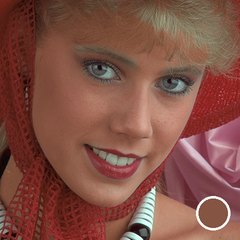
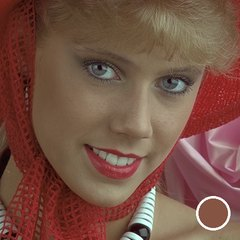
Skin Tone covers and report for the natural shades; backdrop video fix documented
- Skin Tone covers regenerated from the public test portrait with the new
  shades.
- Phase 8 report: the shade as a change of the skin's own colour, the
  natural-hue guard and headroom, final validation on 18 faces (face
  5.8 / body 4.3 ΔE median, background 0.01, no new clipping, skin as
  steady as the clip), and the backdrop video glitch (cause, fix, result:
  background flicker halved, one-frame wall patches gone).
- Architecture: pp_video_consensus_mask.

Claude-Session: https://claude.ai/code/session_017Dx6HQudFpAYYYPyoSw3qJ

diff --git a/docs/PHASE8_BACKDROPS_SKINTONE_REPORT.md b/docs/PHASE8_BACKDROPS_SKINTONE_REPORT.md
@@ -64,7 +64,7 @@ How a backdrop is made (`native/engine/src/backdrop/backdrop.cpp`):
 
 ## Skin Tone
 
-Skin Tone is separate from the beauty filters, which light and retouch. It changes the colour of the skin itself: on the face, neck, chest, arms and hands. Hair, eyes, brows, lips, teeth, clothes and the background keep their own colours.
+Skin Tone is separate from the beauty filters, which light and retouch. It changes the colour of the skin itself, softly and under the photo's own light: on the face, neck, chest, arms and hands. Hair, eyes, brows, lips, teeth, clothes and the background keep their own colours.
 
 | # | Shade | Plan | Character |
 |---|---|---|---|
@@ -88,47 +88,74 @@ In the editor, the new **Skin Tone** tool (next to Backdrop) shows a tile per sh
 
 ### How it works (`native/engine/src/skintone/skintone.cpp`, `pp_skin_tone`)
 
-1. **Measure the person's own skin** on the face, the median colour and its spread, as the beauty engine does.
-2. **Find their skin everywhere.** A weight per pixel combines:
-   - colour similarity to that skin, with a capped tolerance so mixed light or a group photo doesn't take in clothes;
+A first version moved the skin to an absolute target colour. On review it looked like heavy make-up: deep skin pushed toward a pale or golden target went ashen, khaki or greenish. It was rebuilt against a reference sheet of 13 shades on one face. In that sheet every shade stays in the natural skin family, the face and hand change together, and the room keeps its light.
+
+**Measured from the reference:** fair shades lift the skin by about +0.4 to +0.7 stop, deep ones lower it by about −0.2 to −0.45 stop, and each re-balances red, green and blue a little.
+
+1. **A shade is a change of the skin's own colour under the same light**: per-channel gains in linear light, as if the skin's albedo changed.
+   - The scene's light colour, the person's shading, pores and flush all stay, so the new shade sits in the photo naturally.
+   - A test checks this: under a warm lamp or a cool window, the skin takes the same change and the wall is untouched.
+   - The gains were derived from the reference and then fitted on 18 real faces so neighbouring shades stay apart; each shade stays within ±0.08 of its design values.
+2. **Natural-hue guard.** Skin hue lives in a narrow band, measured on these faces at 107–135° (Cb/Cr angle). Past the band, a colour eases back softly, never further than the person's own starting hue: deep skin never turns khaki or olive-green, and no skin turns bruised-magenta. The upper limit rises from about 135° on deep skin to 145° on fair skin.
+3. **Headroom for fair skin.** Already-fair skin isn't lifted toward white, where it would lose its texture. It takes the shade's colour balance, not its lift. Highlights roll off just short of white, so nothing new clips.
+4. **Shine** keeps the light's colour; only its brightness follows the shade.
+5. **Even tone.** Colour blotches and colour noise are pulled a little toward the skin's local colour. Brightness detail — pores and the face's shape — is untouched.
+6. **Finding the skin.** A weight per pixel combines:
+   - colour similarity to the person's own skin (measured on the face), with a capped tolerance;
    - brightness, which keeps dark hair, brows and beards out;
-   - texture, which keeps fair or blonde hair out: strands are busy at fine scale and skin is smooth, and the test is stricter around and above the face;
-   - the face and person masks, with eyes, brows and lips protected.
+   - texture, which keeps fair hair out: strands are busy, skin is smooth.
 
-   The weight follows the photo's own edges through a colour guided filter.
-3. **Brightness moves part of the way:** half the distance in stops, eased off toward about 0.7 stop either way, in linear light. Highlights are rolled off, so nothing new clips.
-4. **The undertone (hue) moves all the way** to the shade's. Saturation follows only as far as brightness could go, and always at least half way. Without that, a pale shade on a face that stays deep looks ashen grey, and a deep shade on a face that stays fair looks orange. Shine stays nearly white, which avoids a metallic look. Out-of-range colours are eased back by reducing chroma, never by clipping, so texture stays.
-5. The person's own variation — flush, shading, freckles, pores — is kept around the new shade.
-
-**A deliberate choice.** A shade changes the person's colouring, but not who they are. Brightness is limited to about ±0.7 stop. Porcelain Rose on a deep-skinned face gives a lighter, rosier version of that face, not a different person's skin. The same holds the other way. Strength scales everything.
+   The face area is feathered so no oval outline shows, and features (eyes, brows, lips) are protected with soft edges. The weight is firm on clear skin, so the face and the body take the same shade, and it follows the photo's own edges through a colour guided filter.
 
 ### Validation (`scripts/skintone-demo.py`)
 
-**Faces:** your photo, two reference portraits and 15 FairFace faces, from very fair to very deep, including group photos.
+**Faces:** your photo, two reference portraits and 15 FairFace faces from very fair to very deep, including group photos.
 
-**Ground truth:** MediaPipe's multiclass segmenter labels face skin, body skin, hair and clothes, for measuring only. The app uses ML Kit plus the face landmarks. 18 faces × 13 shades = 234 renders.
+**Ground truth:** MediaPipe's multiclass segmenter labels face skin, body skin, hair and clothes, for measuring only; the app uses ML Kit plus the face landmarks. 234 renders.
 
-| Measure (CIELAB ΔE) | Median | 90th percentile |
+| Measure (CIELAB ΔE unless noted) | Median | 90th percentile |
 |---|---|---|
-| Face skin change | 10.2 | 16.2 |
-| Body skin change (neck, arms, hands) | 7.4 | 14.4 |
-| Distance to the shade's colour, after / before (face) | 0.51 | — |
-| Hair change | 1.1 | 6.7 |
-| Clothes change | 0.45 | 3.7 |
+| Face skin change | 5.8 | 8.8 |
+| Body skin change (neck, arms, hands) | 4.3 | 8.2 |
+| Share of the shade's change reaching the face / body | 0.76 / 0.68 | — |
+| Hair change | 0.75 | 4.3 |
+| Clothes change | 0.29 | 2.3 |
 | Background change | 0.01 | 0.08 |
-| Eyes, brows, lips change | 1.0 | 1.9 |
-| Skin texture kept (fine detail, after / before) | 1.09 (face), 1.07 (body) | 0.94–1.20 (10th–90th) |
-| Newly clipped pixels | 0 | max 0.8% (one low-light photo) |
+| Eyes, brows, lips change | 0.9 | 1.5 |
+| Skin texture relative to brightness (face) | 1.04 | 0.95–1.16 (10th–90th) |
+| Newly clipped pixels | 0 in every render | — |
 
-**Distinct shades.** On each face, the two closest shades differ by a median of 3.6 ΔE (2.3 is about what most people can just tell apart). The exceptions are the most underexposed FairFace faces, where the brightness limit squeezes neighbouring light shades together: Golden Beige vs Olive at 1.2 on the darkest. The shade colours were fitted with a model of the engine on these faces, keeping each shade close to its name.
+**Distinct shades.** On each face, the two closest shades differ by a median of 2.3 ΔE (about what most people can just tell apart), and by 2.5 on your photo.
 
-**Speed:** 0.29–0.33 s per shade for your 8 MP photo, 0.05–0.09 s at 0.8 MP (desktop host, 4 cores).
+Gentle shades sit close by nature; neighbours in the reference sheet are close too (Honey, Caramel, Bronze). On the three most underexposed FairFace faces the closest pair falls to 0.8–1.0.
 
-**Your 5-second clip** (164 frames): face found in every frame. The skin is as steady as the clip itself: cheek colour changes 0.74 levels frame to frame with a shade, against 0.57 with Glide alone. About 0.1–0.24 s per frame on the host.
+**Speed:** 0.27–0.34 s per shade for your 8 MP photo, 0.07–0.15 s at 0.8 MP (desktop host, 4 cores).
+
+**Your 5-second clip** (164 frames): face found in every frame. Cheek colour changes 0.52–0.81 levels frame to frame with a shade, against 0.57 with Glide alone. About 0.1 s per frame on the host.
 
 **Known limits.**
-- Hair the same colour as the skin (auburn, ginger, some light browns) can pick up part of the shade, especially at the fringe. The hair change reaches 10–13 ΔE on the worst photos; the Strength slider tones it down.
-- Clothing in a skin-like colour (beige, pink) near the skin can shift slightly (90th percentile 3.7 ΔE).
+- Skin-coloured hair (auburn, ginger, light brown) can pick up a little of the shade at the fringe (90th percentile 4.3 ΔE).
+- On a very underexposed face, neighbouring shades are hard to tell apart.
+
+## The backdrop video glitch
+
+**Seen in your 5-second clip:** a shadowy form pulling in and out around the person.
+
+**Cause.** Single frames where the person-finder made a mistake:
+- In frame 61 a chunk of the wall above your head was marked as "person"; in frame 60, a fleck beside it.
+- The head outline changed shape from one frame to the next.
+
+Cut out and re-lit, those bits of the old wall flickered in and out of the new scene.
+
+**Fixed in two places:**
+- **The matte drops stray islands.** Patches of "person" not connected to anyone (smaller than 8% of the main subject) are removed. People standing apart are each large, and stay. This helps photos too.
+- **Video uses a three-frame consensus.** The new `pp_video_consensus_mask` takes the per-pixel median of the previous, current and next frames' masks. A one-frame mistake is outvoted; real movement, which changes smoothly, passes through.
+
+**Result on your clip (Stage):**
+- The wall chunk and the fleck are gone (see frames 58–63 before and after).
+- Frame-to-frame change in the background halved: 1.84 → 0.93 levels on average, worst frame 10.6 → 7.0.
+
+**Not yet in the app:** Glide clips don't offer Backdrops yet (they use Spotlight's blur). The consensus call is ready for that, and for steadier Spotlight clips.
 
 ## App wiring
 
@@ -145,10 +172,11 @@ In the editor, the new **Skin Tone** tool (next to Backdrop) shows a tile per sh
 
 | Suite | Result |
 |---|---|
-| Engine `backdrop_tests.cpp` | 9 tests (1 new: hair the mask missed and the wall seam), also under AddressSanitizer + UBSan |
-| Engine `skintone_tests.cpp` | 6 new, also under ASan + UBSan. For 6 starting tones × 3 shades: undertone 92–102% of the way on face and neck, brightness within the limit, richness never past the shade. Background < 0.3 levels and eyes, iris and teeth < 2 levels unchanged; texture kept, no new clipping; strength blends; no face = no change; bad input; cancellation |
-| Kotlin | 143 tests, 3 new in `SkinToneTest` (catalogue match, parsing and clamping, editor document and re-render key); lint clean; native library builds with the NDK |
-| Jest | 248 tests, 4 new in `skintones.test.tsx` (order fair to deep, free shades span the range, covers, validation and old edits, panel: apply / lock / strength / remove, no-face note) |
+| Engine `backdrop_tests.cpp` | 10 tests, also under AddressSanitizer + UBSan. New: hair the mask missed and the wall seam; a stray patch of wall taken for the person is dropped |
+| Engine `video_tests.cpp` | New: the three-frame consensus outvotes a one-frame blob and keeps a moving edge |
+| Engine `skintone_tests.cpp` | 7 tests, also under ASan + UBSan:<br>• 6 starting tones × 3 shades: face and neck take the shade's gains (within 5%; the fairest skin takes the shade's colour balance, not more lift)<br>• the scene's light stays on the skin (warm lamp, cool window)<br>• background < 0.3 levels; eyes, iris, teeth and lips unchanged<br>• texture kept, no new clipping; strength blends<br>• no face (or a tiny one) = no change; bad input; cancellation |
+| Kotlin | 3 new in `SkinToneTest` (catalogue match including gains, gentle range, parsing and clamping, editor document and re-render key); lint clean; native library builds with the NDK |
+| Jest | 4 new in `skintones.test.tsx` (gentle gains, fair shades lift and deep ones deepen, free shades span the range, covers, validation and old edits, panel: apply / lock / strength / remove, no-face note) |
 
 ## Not verified on a phone
 

diff --git a/docs/ARCHITECTURE.md b/docs/ARCHITECTURE.md
@@ -255,7 +255,8 @@ PortraitProcessor.applyBeauty(recipe?, backdrop?, skinTone?): one set of masks (
 | Where | What |
 |---|---|
 | `native/engine/src/backdrop/backdrop.cpp` | Matte (hair the mask missed recovered by colour, colour guided filter), clean plates, 14 painted designs, relighting, composite |
-| `native/engine/src/skintone/skintone.cpp` | Skin weight (colour, brightness, texture, region), partial brightness move, full undertone move, highlight-aware |
+| `native/engine/src/skintone/skintone.cpp` | Skin weight (colour, brightness, texture, feathered region); the shade as gains on the skin's own colour in linear light (the scene's light stays), natural-hue guard, headroom for fair skin, even tone |
+| `pp_video_consensus_mask` | Three-frame median of subject masks: one-frame segmentation mistakes never reach a clip |
 | `scripts/backdrop-demo.py`, `scripts/backdrop-video-demo.py` | Sheets and clips on real photos and video |
 | `scripts/skintone-demo.py`, `scripts/skintone-video-demo.py` | Sheets, per-region measurements (face, body, hair, clothes, background) and clips |
 
